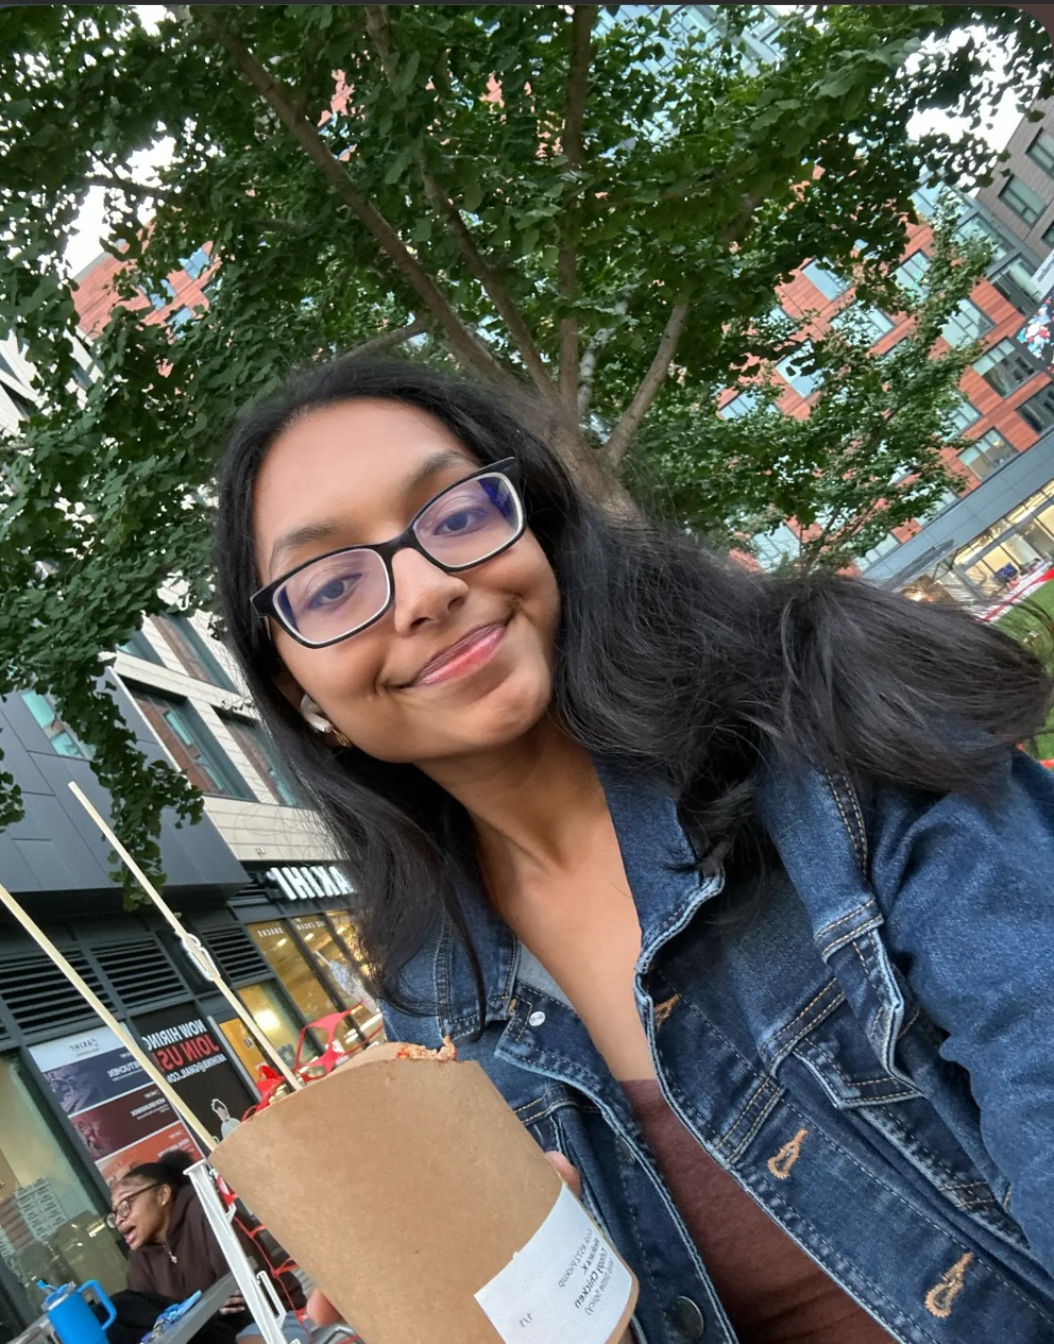
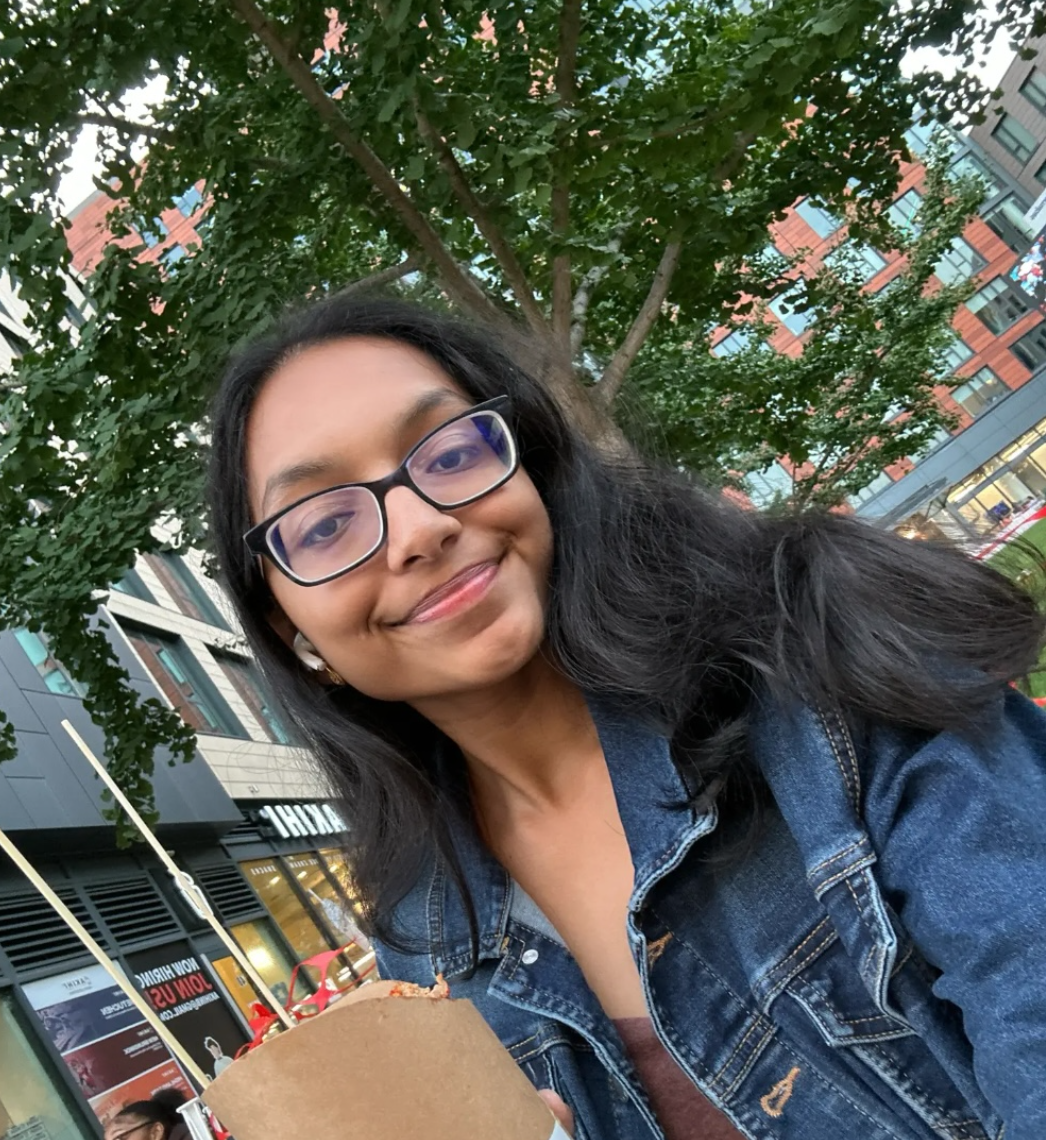
fix elongated pics

diff --git a/index.html b/index.html
@@ -431,7 +431,7 @@
             <img
               height="315"
               width="315"
-              src="images/pics/NATALIE24.jpg"
+              src="images/pics/NATALIE24.png"
               class="image-box"
               alt=""
             />
